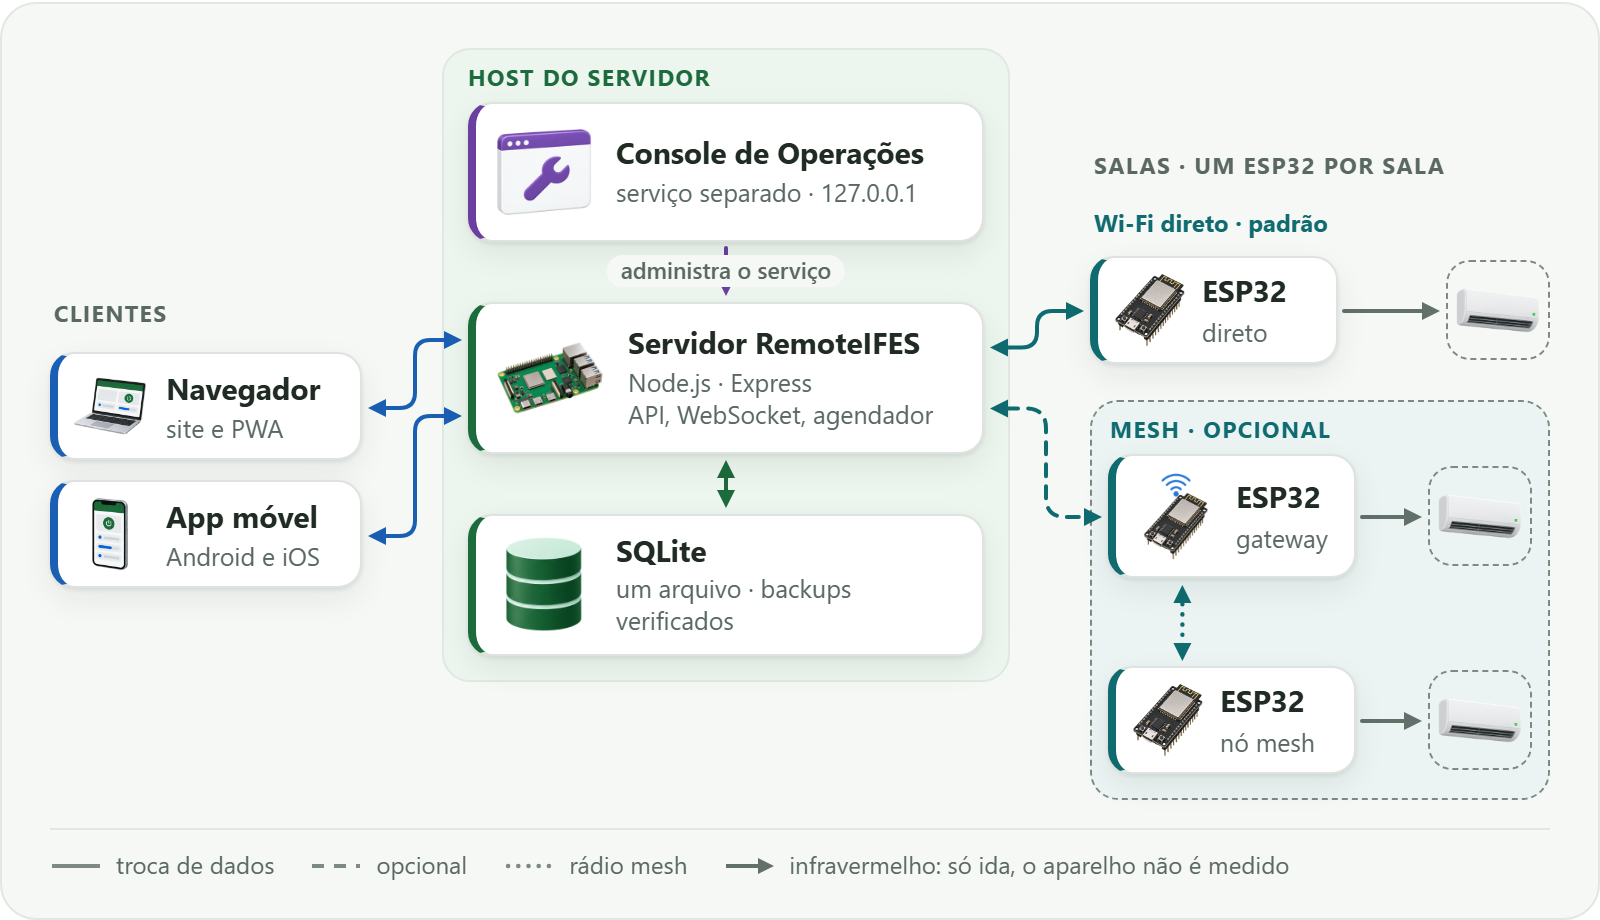
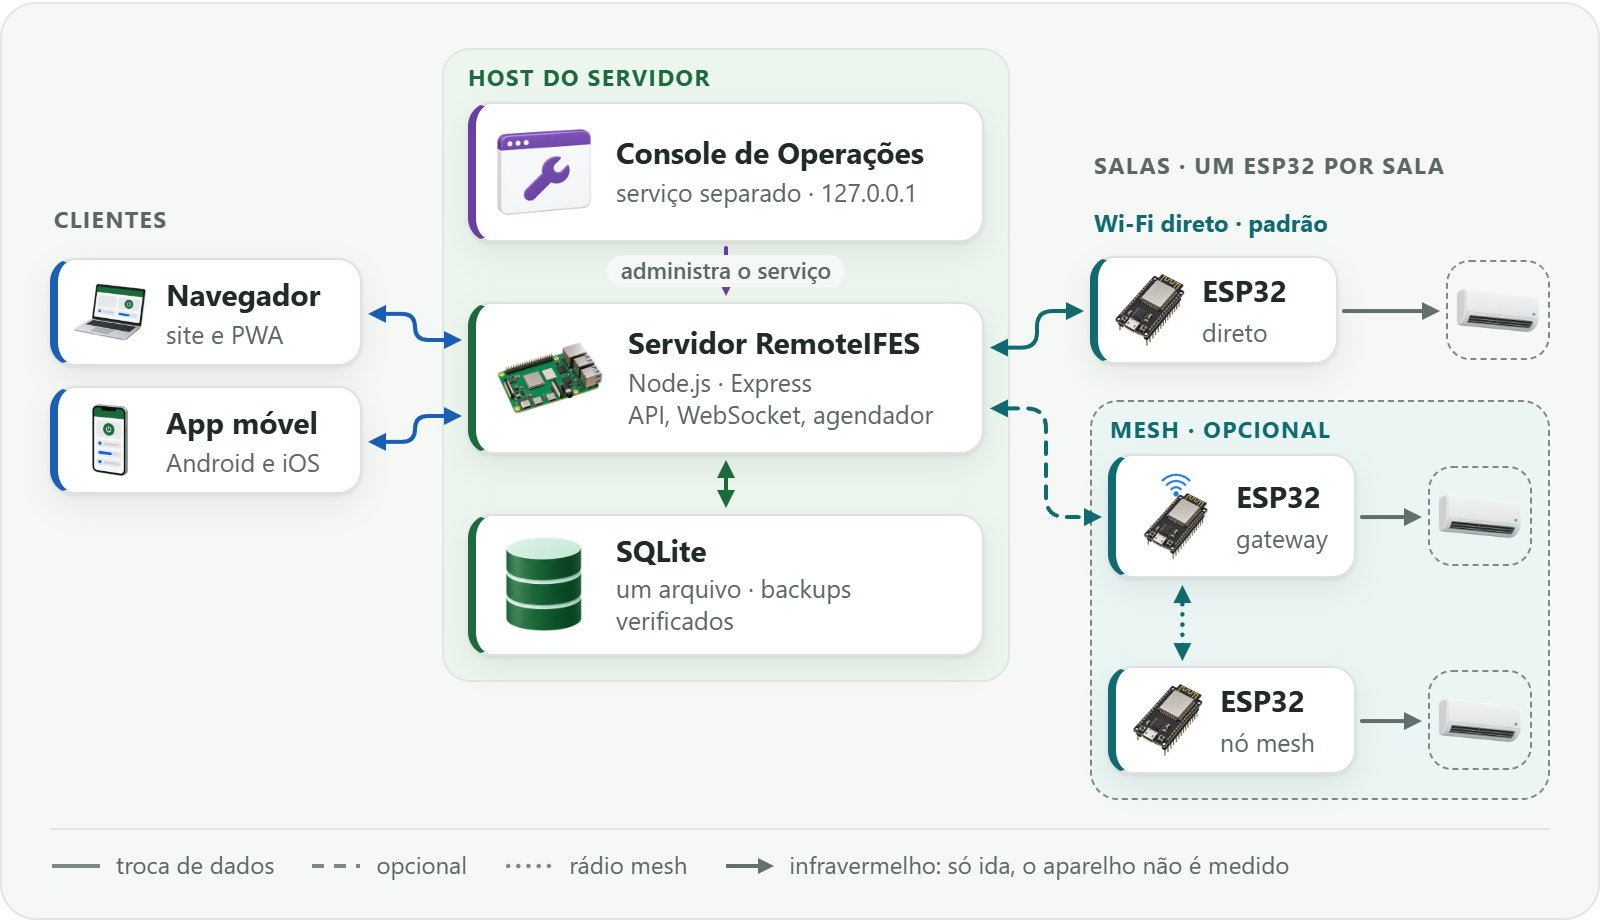
Centre the client cards on the server in the architecture figure
The Navegador and App móvel cards sat about 47 px below the centre of
the server card, so their connectors climbed by unequal amounts. The
Clients column now starts 79 px down instead of 126 px, which centres
the pair on the server card and makes the two connectors mirror each
other. Both theme renders are regenerated.

diff --git a/docs/readme-assets/src/architecture-overview.html b/docs/readme-assets/src/architecture-overview.html
@@ -15,7 +15,7 @@
     font-size: 11.5px; font-weight: 700; letter-spacing: 0.06em; text-transform: uppercase;
     color: var(--texto-fraco); margin: 0 0 2px 2px;
   }
-  #clientes { grid-column: 1; margin-top: 126px; gap: 10px; }
+  #clientes { grid-column: 1; margin-top: 79px; gap: 10px; }
   #clientes .cartao { padding: 6px 10px 6px 6px; gap: 8px; }
   #host { grid-column: 3; display: flex; flex-direction: column; gap: 30px; }
   #salas { grid-column: 5; margin-top: 52px; gap: 8px; }
